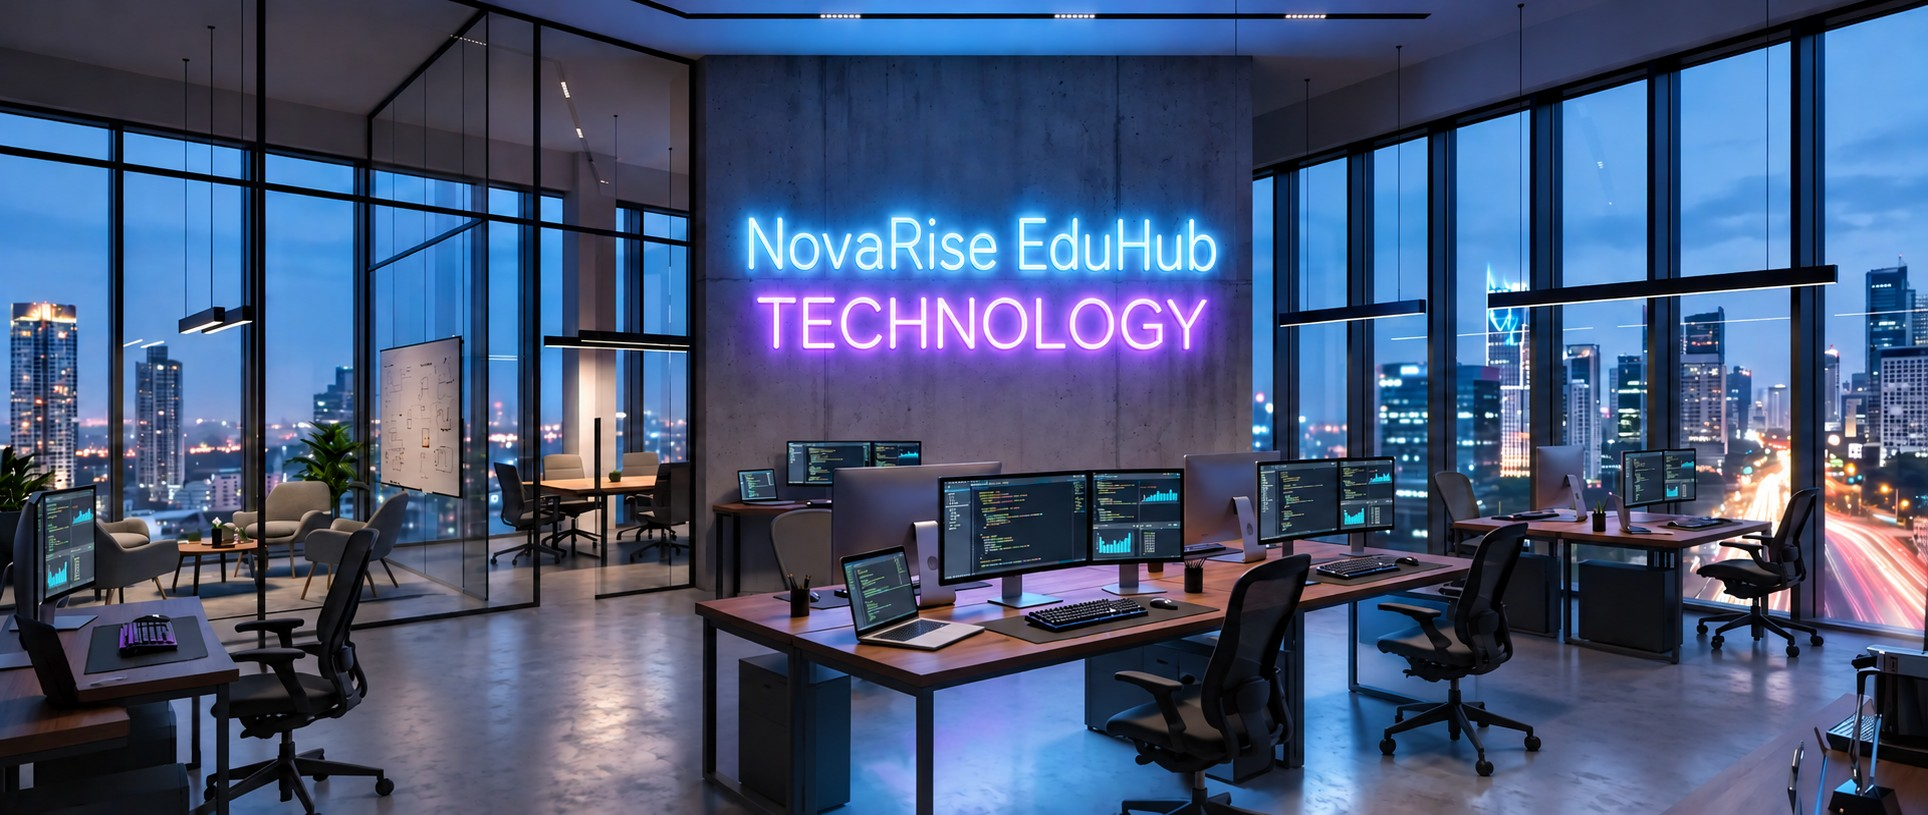
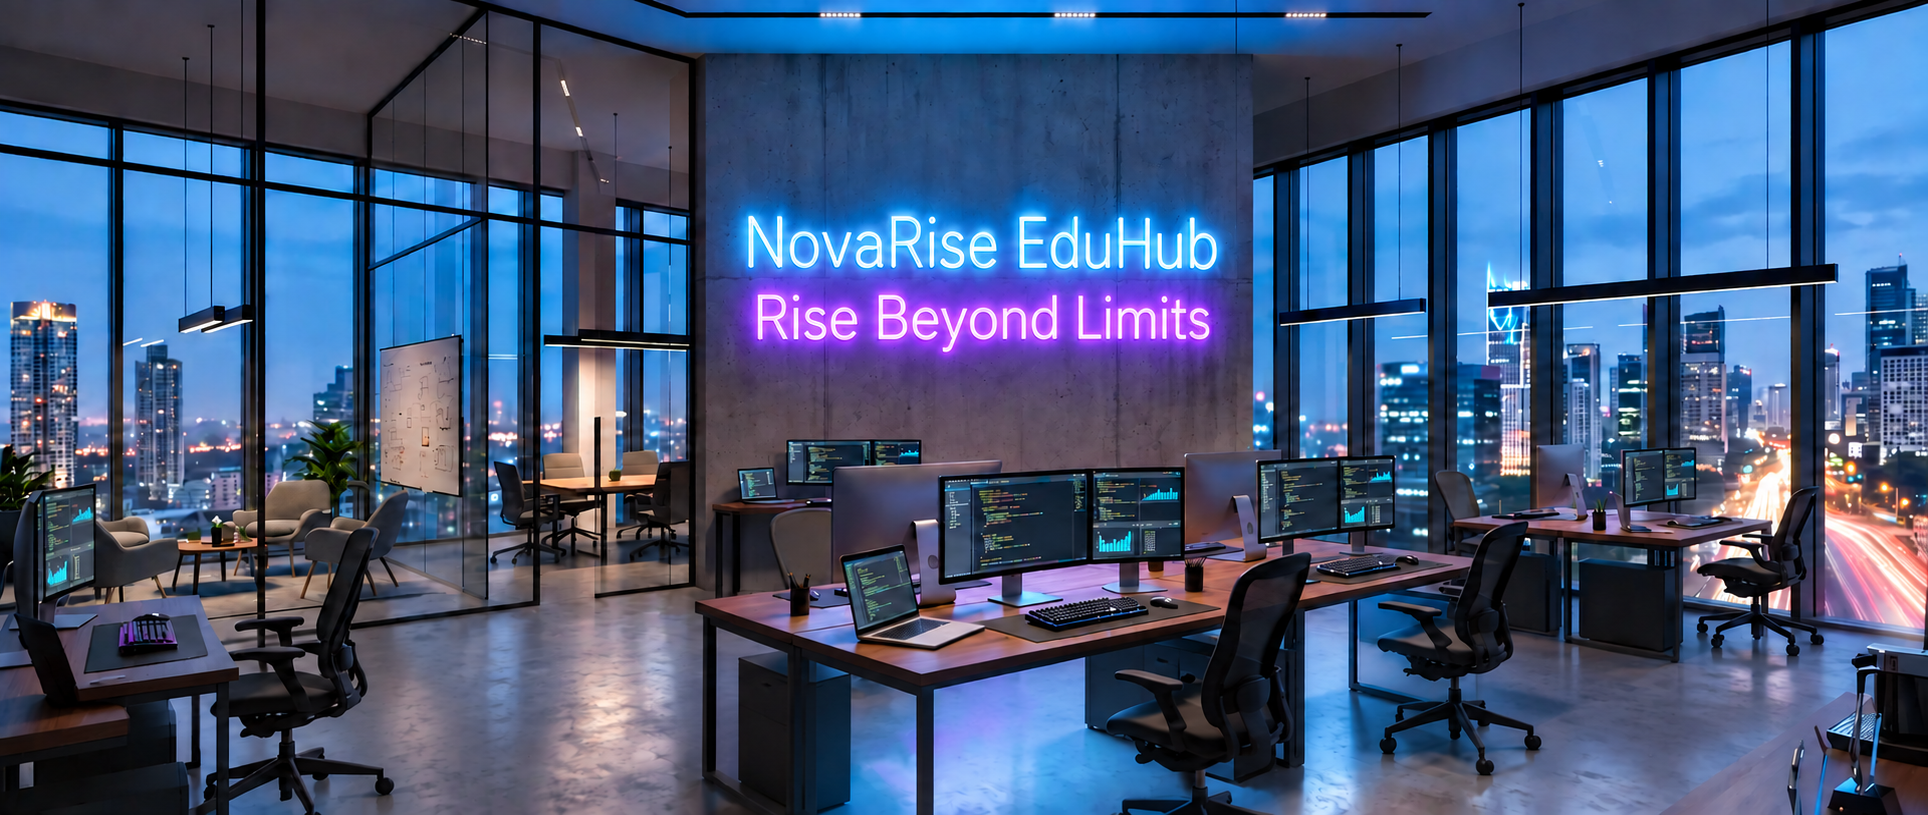
Update NovaRise EduHub website

diff --git a/src/components/layout/Navbar.jsx b/src/components/layout/Navbar.jsx
@@ -77,7 +77,7 @@ function Navbar() {
       <nav className="mx-auto flex h-18 max-w-7xl items-center justify-between gap-6 px-5 sm:px-8 lg:px-10" aria-label="Main navigation">
         <a href="#home" onClick={handleHomeClick} className="group flex shrink-0 items-center gap-3 text-slate-950 focus-visible:outline-none focus-visible:ring-2 focus-visible:ring-indigo-500 focus-visible:ring-offset-4 dark:text-white dark:focus-visible:ring-offset-slate-950" aria-label="Nova Rise home">
           <BrandLogo variant="navbar" className="transition-transform duration-200 group-hover:-translate-y-0.5" />
-          <span className="text-[17px] font-semibold tracking-[-0.02em]">NOVARISE</span>
+          <span className="text-[17px] font-semibold tracking-[-0.02em]">NovaRise</span>
         </a>
 
         <div className="hidden items-center gap-1 lg:flex">
